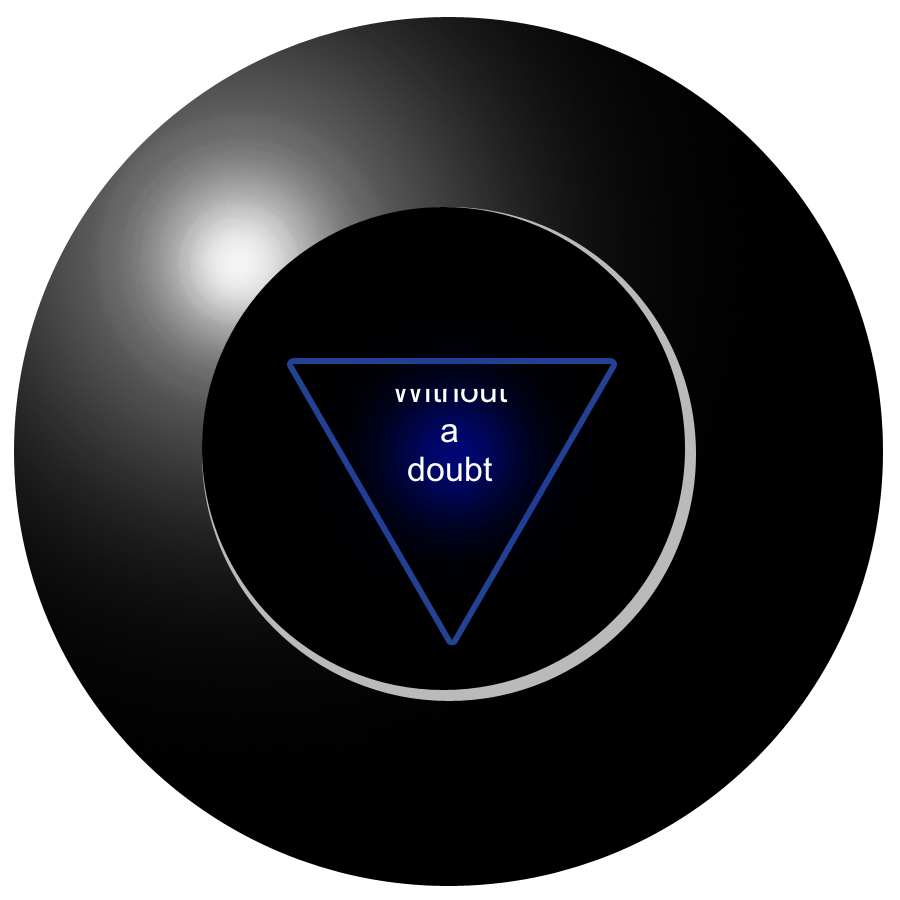
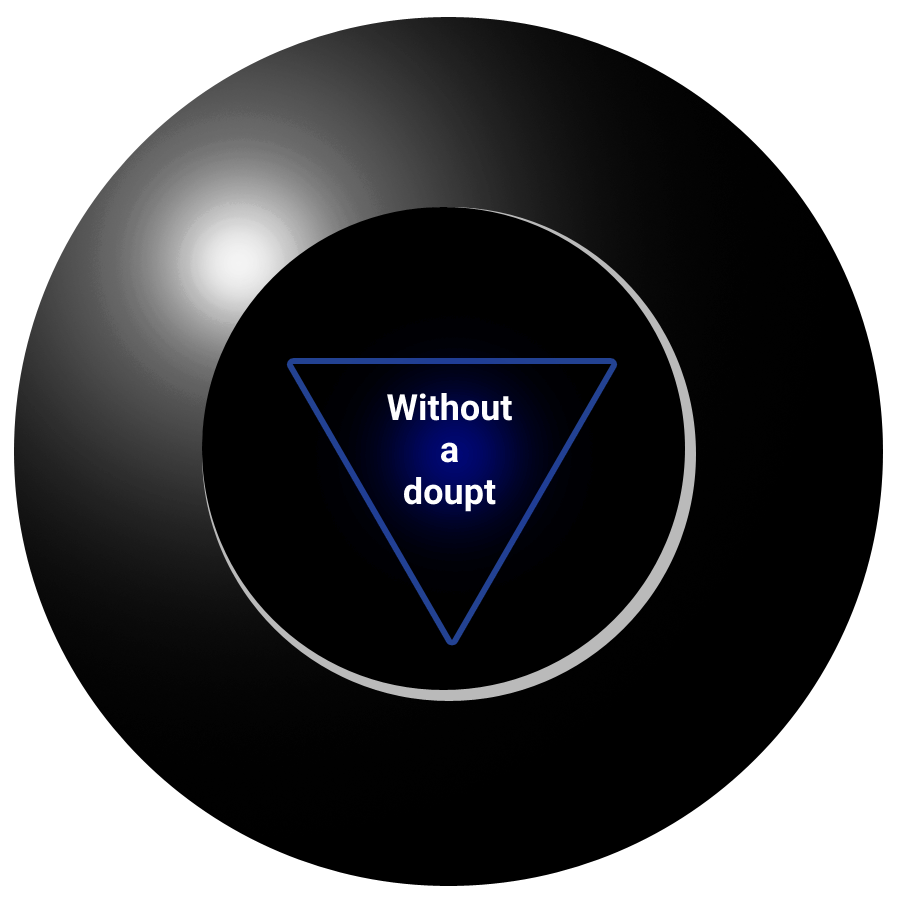
added new button functionality and meaning of life

Changed region(s): [[0.4356, 0.4356, 0.5911, 0.56]]

diff --git a/js/checkBox.js b/js/checkBox.js
@@ -1,9 +1,11 @@
 class JSCheckBox {
-    constructor(_element, _fontSize, _defaultText, _activeText) {
+    constructor(_element, _fontSize, _defaultText, _activeText, _height, _width) {
         this.element = _element;
         this.fontSize = _fontSize;
         this.defaultText = _defaultText ? _defaultText : "";
         this.activeText = _activeText ? _activeText : "";
+        this.height = _height;
+        this.width = _width;
         this.input = document.createElement("input");
         this.label = document.createElement("label");
         this.text = document.createElement("p");
@@ -13,24 +15,20 @@ class JSCheckBox {
         this.input.setAttribute("type", "checkbox");
         this.input.setAttribute("id", `${this.inputID}`)
         this.label.setAttribute("for", `${this.inputID}`)
-        // let _labelId = document.getElementById(`${this.element.className}`);
         this.element.appendChild(this.input);
         this.element.appendChild(this.label);
         this.label.appendChild(this.text);
-        this.input.addEventListener("change", () => {
-            if (this.input.checked) {
-                this.styleActive();
-            } else {
-                this.styleDefault();
-            }
-        })
+        this.eventHandler();
         this.styleDefault();
+        if (this.input.checked) {
+            this.styleActive();
+        }
     }
     styleDefault() {
-        // this.element.style.width = "6em";
-        // this.element.style.height = "3em";
-        this.element.style.fontSize = `${this.fontSize}em`;
+        this.text.style.fontSize = `${this.fontSize}`;
         //Label Styles
+        this.label.style.width = this.width ? this.width : "auto";
+        this.label.style.height = this.height ? this.height : "auto";
         this.label.style.backgroundColor = "var(--background)"
         this.label.style.boxShadow = "-4px -4px 4px var(--nmShadow2), 4px 4px 4px var(--nmShadow1)";
         this.label.style.position = "absolute";
@@ -46,6 +44,7 @@ class JSCheckBox {
         this.text.style.color = "var(--textColorEnabled)";
         this.text.style.textAlign = "center";
         this.text.style.margin = ".5em"
+        this.text.style.textShadow = "none";
 
         this.input.style.position = "absolute";
         this.input.style.visibility = "hidden";
@@ -55,6 +54,17 @@ class JSCheckBox {
         this.label.style.boxShadow = "inset -4px -4px 4px var(--nmShadow2), inset 4px 4px 4px var(--nmShadow1)";
         this.text.style.color = "var(--textColorDisabled)";
         this.text.innerHTML = `${this.activeText}`;
+        this.text.style.textShadow = "none";
+    }
+    styleHoverDefault() {
+        this.text.style.color = "var(--textColorEnabledHover)";
+        this.text.style.textShadow =
+            "-1px -1px 16px var(--textColorEnabledHover), 1px 1px 16px var(--textColorEnabledHover)";
+    }
+    styleHoverActive() {
+        this.text.style.color = "var(--textColorDisabledHover)";
+        this.text.style.textShadow =
+            "-1px -1px 16px var(--textColorDisabledHover), 1px 1px 16px var(--textColorDisabledHover)";
     }
     setID() {
         let _random = Math.random() * (Date.now() - (Date.now() - 2000)) + (Date.now() - 2000);
@@ -67,5 +77,61 @@ class JSCheckBox {
         } else {
             return _random;
         }
+    }
+    eventHandler() {
+        this.input.setAttribute("type", "checkbox");
+        this.label.addEventListener("mouseenter", () => {
+            if (this.input.checked) {
+                this.styleHoverActive();
+            } else {
+                this.styleHoverDefault();
+            }
+        });
+        this.label.addEventListener("mouseleave", () => {
+            if (this.input.checked) {
+                this.styleActive();
+            } else {
+                this.styleDefault();
+            }
+        });
+
+        this.input.addEventListener("change", () => {
+            if (this.input.checked) {
+                this.styleActive();
+            } else {
+                this.styleDefault();
+            }
+        });
+    }
+}
+
+
+class JSSubmitBtn extends JSCheckBox {
+    constructor(_element, _fontSize, _defaultText, _activeText, _height, _width) {
+        super(_element, _fontSize, _defaultText, _activeText, _height, _width);
+    }
+    styleActive() {
+        this.label.style.backgroundColor = "var(--background)";
+        this.label.style.boxShadow =
+            "inset -4px -4px 4px var(--nmShadow2), inset 4px 4px 4px var(--nmShadow1)";
+        this.text.style.color = "var(--textColorSecondary)";
+        this.input.style.visibility = "hidden";
+        this.text.innerHTML = `${this.activeText}`;
+        this.text.style.textShadow = "none";
+    }
+    eventHandler() {
+        this.input.setAttribute("type", "submit");
+        this.label.addEventListener("mouseenter", () => {
+            this.styleHoverDefault();
+        });
+        this.label.addEventListener("mouseleave", () => {
+            this.styleDefault();
+        });
+        this.label.addEventListener("pointerdown", () => {
+            this.styleActive();
+        });
+        this.label.addEventListener("pointerup", () => {
+            this.styleDefault();
+        });
     }
 }

diff --git a/js/script.js b/js/script.js
@@ -26,12 +26,17 @@ testBurger.draw();
 let history = new GridDoc(colapsableDoc, null, "1px", "1px", "600px", "500px");
 history.draw();
 
-let animBTN = new JSCheckBox(animbutton, 1, "Animation </br> Active", "Animation </br> Inactive");
+let animBTN = new JSCheckBox(animbutton, 1, "Activate </br> Animation", "Deactivate </br> Animation");
+animBTN.input.checked = true;
 animBTN.draw();
+
+
+let submitBTN = new JSSubmitBtn(submit, "1.5em", "Submit", "Submit");
+submitBTN.draw();
 
 animbutton.addEventListener("click", () => {
     // sessionStorage.clear();
-    if (animBTN.input.checked) {
+    if (!animBTN.input.checked) {
         magicball.style.animation = "none";
         shadow.style.animation = "none";
     } else {
@@ -134,9 +139,6 @@ function getSessionStorage() {
     return sessionStorageArr;
 }
 
-
-
-
 let testtable = new JSTableMaker(history.background, null, getSessionStorage());
 testtable.draw();
 
@@ -145,10 +147,23 @@ theQuestion.addEventListener("submit", (event) => {
 
     let randomIndex = randomNumber(1, 20) - 1;
     let datetime = `${new Date().today()} ${new Date().timeNow()}`;
-    startBall.src = sourceArray[randomIndex];
-    startBall.reDraw();
-    let record = [question.input.value, answerArray[randomIndex], datetime]
-    sessionStorage.setItem(question.getKey(), JSON.stringify(record));
-    theQuestion.reset();
-    testtable.reDraw(getSessionStorage());
+    console.log(event.target);
+    if (event.target[1].value.match(/(?=.*(?:^|\W)meaning(?:$|\W))+(?=.*(?:^|\W)life(?:$|\W))/i)) {
+        console.log("42");
+        startBall.src = "./img/magic8ball_mol.png";
+        startBall.reDraw();
+        let record = [event.target[1].value, "42", datetime]
+        sessionStorage.setItem(question.getKey(), JSON.stringify(record));
+        theQuestion.reset();
+        testtable.reDraw(getSessionStorage());
+    } else {
+        console
+        startBall.src = sourceArray[randomIndex];
+        startBall.reDraw();
+        let record = [event.target[1].value, answerArray[randomIndex], datetime]
+        sessionStorage.setItem(question.getKey(), JSON.stringify(record));
+        theQuestion.reset();
+        testtable.reDraw(getSessionStorage());
+    }
+
 });

diff --git a/style.css b/style.css
@@ -5,10 +5,13 @@
     --elev1dp: rgba(30, 30, 30, 1);
 
     --textColorPrimary: rgba(255, 255, 255, 0.8);
-    --textColorDisabled: rgba(255, 255, 255, 0.2);
+    --textColorSecondary: rgba(255, 255, 255, 0.5);
     --textColorEnabled: rgba(130, 250, 100, 0.8);
-    --textColorError: rgba(250, 50, 50, 0.5);
+    --textColorEnabledHover: rgba(130, 250, 70, 1);
+    --textColorDisabled: rgba(250, 50, 50, 0.5);
+    --textColorDisabledHover: rgba(250, 50, 0, 0.8);
 }
+
 
 * {
     margin: 0px;
@@ -72,12 +75,19 @@ body {
 }
 
 #theQuestion {
+    width: 100vw;
     position: relative;
     display: flex;
     top: -10vh;
-    justify-content: center;
+    flex-direction: column;
+    align-items: center;
     text-align: center;
 }
+
+#submit label {
+    transform: translate(-50%, 3em)
+}
+
 
 #collapsableDoc {
     position: relative;

diff --git a/index.html b/index.html
@@ -17,7 +17,9 @@
         <div id="theball"></div>
         <div class="shadow"></div>
     </div>
-    <form id="theQuestion" action="" method="GET"></form>
+    <form id="theQuestion" action="" method="GET">
+        <div id="submit"></div>
+    </form>
     <div id="collapsableDoc"></div>
 
 
